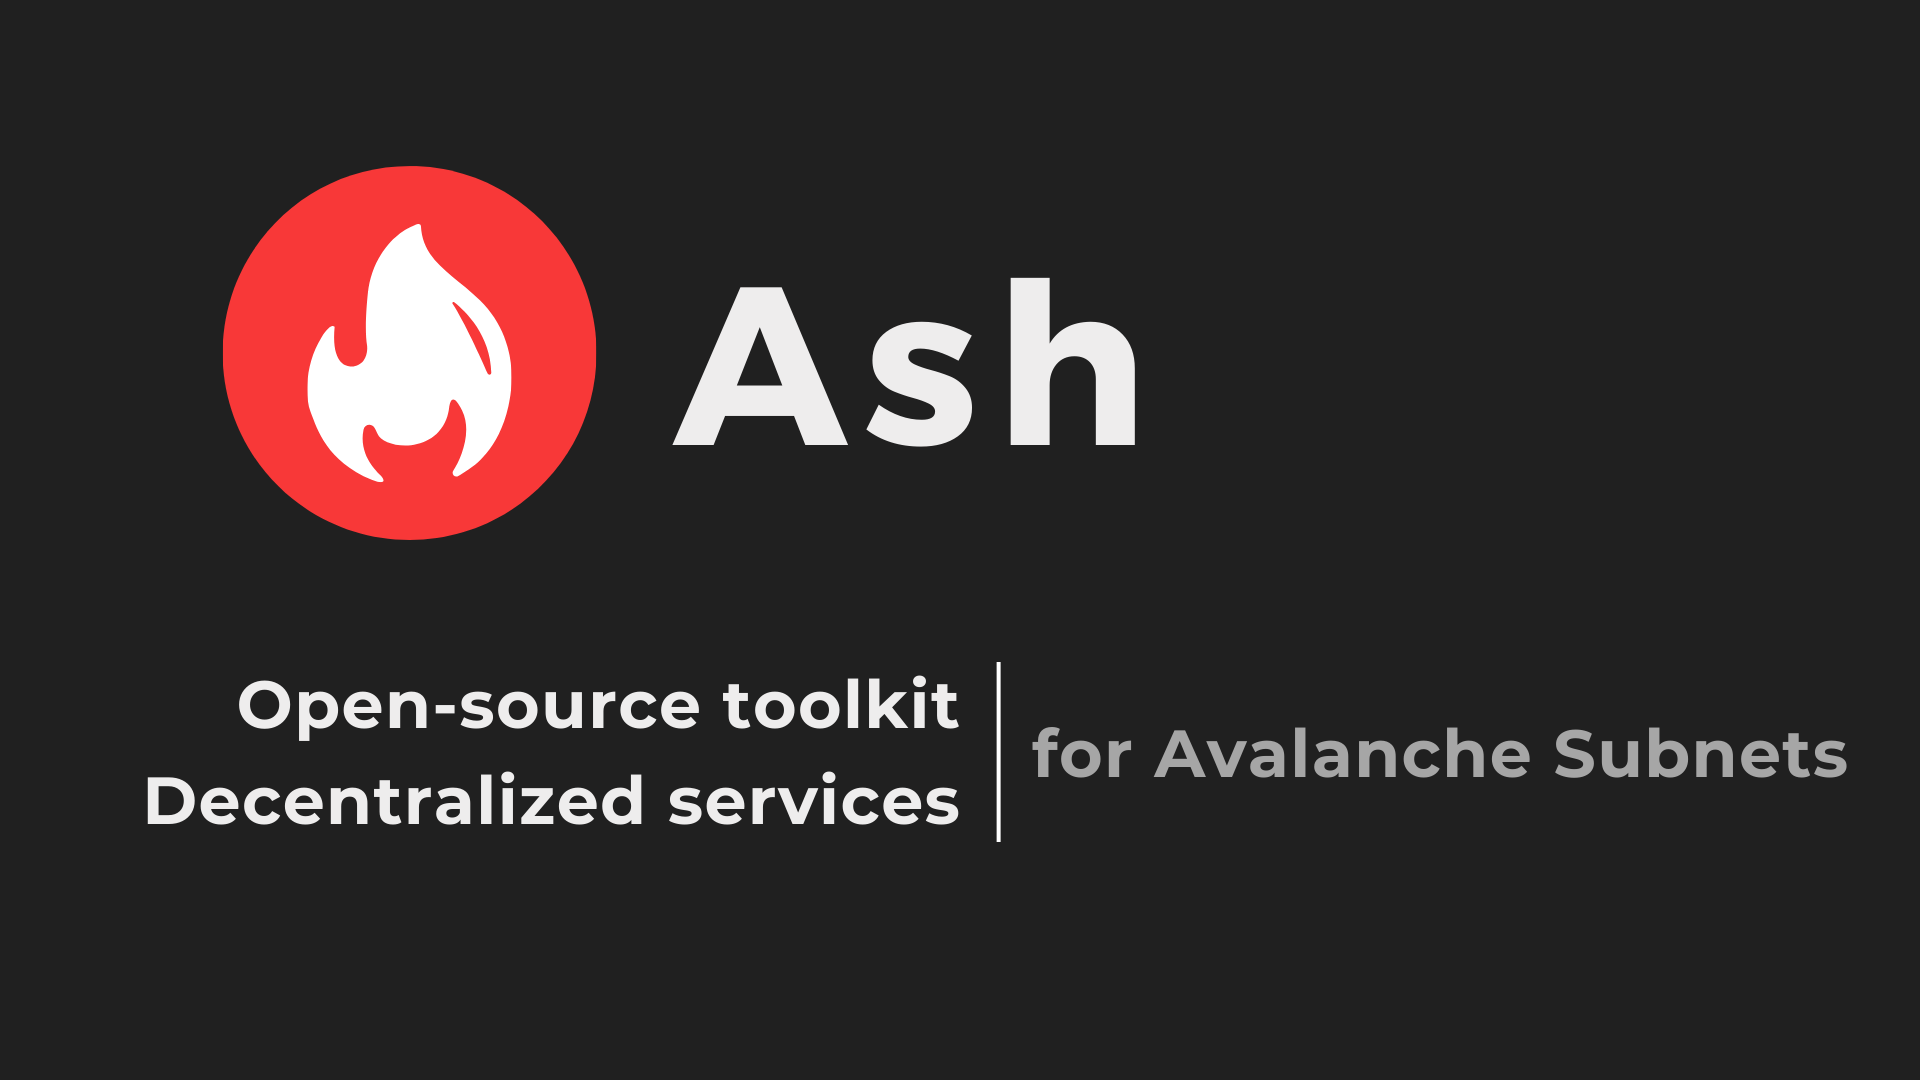
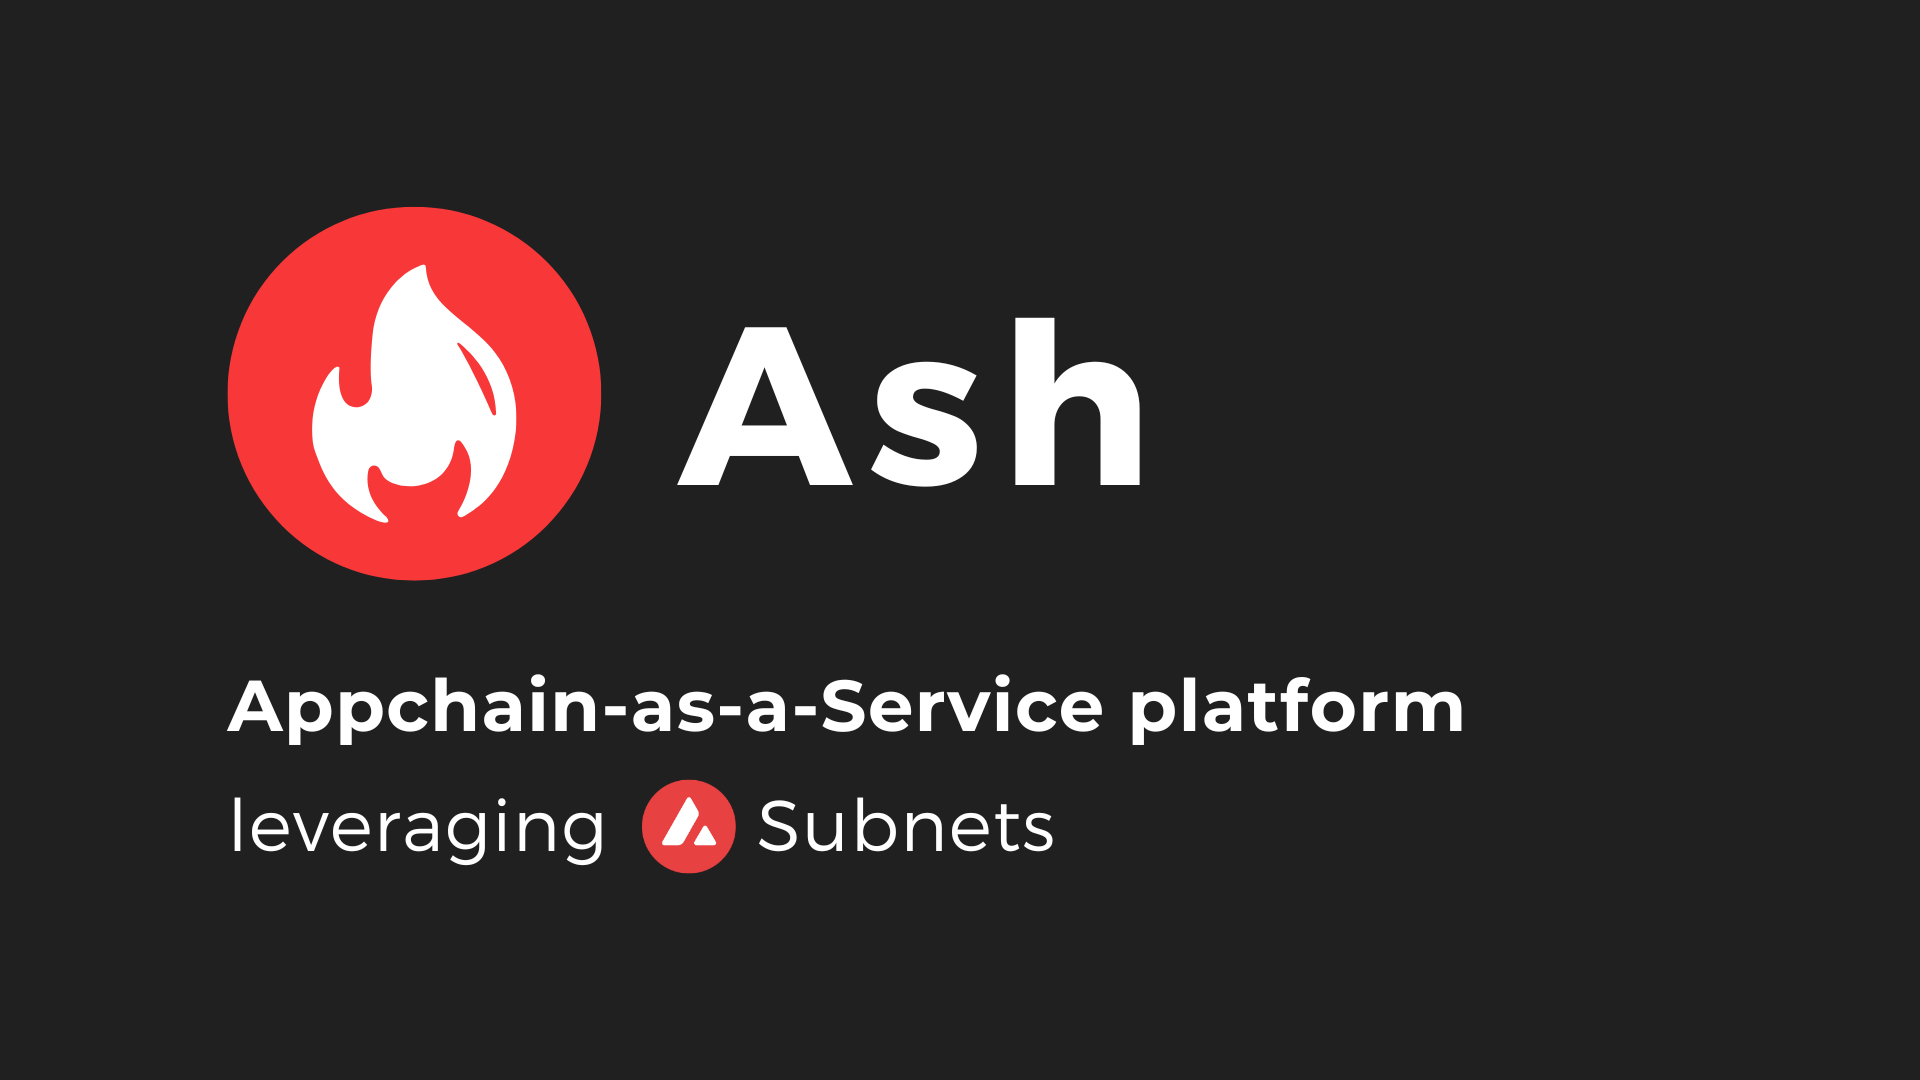
feat(landpage): Appchain-as-a-Service platform

Changed region(s): [[0.0625, 0.6111, 0.9688, 0.825], [0.0938, 0.1528, 0.3125, 0.55], [0.3438, 0.2444, 0.5938, 0.4583]]

diff --git a/src/components/Homepage/Features/index.tsx b/src/components/Homepage/Features/index.tsx
@@ -19,7 +19,10 @@ const FeatureList: FeatureItem[] = [
         <b>
           <Link to="/docs/console">Ash Console</Link>
         </b>{" "}
-        is the one-stop shop for <b>Avalanche services management</b>.
+        is the one-stop shop for <b>Appchain development and operation</b> on
+        Avalanche.
+        <br />
+        100% <b>cloud-agnostic</b>.
       </>
     ),
   },
@@ -40,7 +43,7 @@ const FeatureList: FeatureItem[] = [
     description: (
       <>
         Our team can help you with all your <b>Avalanche-related</b> needs,
-        including <b>private blockchain</b> networks.{" "}
+        including <b>Appchain design</b>.<br />
         <Link to="/docs/professional-services">Learn more</Link>.
       </>
     ),

diff --git a/docusaurus.config.js b/docusaurus.config.js
@@ -7,7 +7,7 @@ const darkCodeTheme = require("prism-react-renderer/themes/dracula");
 /** @type {import('@docusaurus/types').Config} */
 const config = {
   title: "Ash",
-  tagline: "Get more from your Avalanche infrastructure",
+  tagline: "Appchain-as-a-Service platform",
   favicon: "img/ash-logo.svg",
 
   // Set the production url of your site here
@@ -153,7 +153,7 @@ const config = {
             ],
           },
         ],
-        copyright: `Copyright © ${new Date().getFullYear()} E36 Knots - Built with Docusaurus`,
+        copyright: `Copyright © 2022-${new Date().getFullYear()} E36 Knots - Built with Docusaurus`,
       },
       prism: {
         theme: lightCodeTheme,

diff --git a/src/components/Homepage/Header/index.tsx b/src/components/Homepage/Header/index.tsx
@@ -11,7 +11,12 @@ export default function HomepageHeader() {
     <header className={clsx("hero hero--primary", styles.heroBanner)}>
       <div className="container">
         <h1 className="hero__title">{siteConfig.title}</h1>
-        <p className="hero__subtitle">{siteConfig.tagline}</p>
+        <p className="hero__subtitle">
+          {siteConfig.tagline}
+          <br />
+          leveraging Avalanche Subnets
+        </p>
+        <p className="hero__subtitle"></p>
         <div className={styles.buttons}>
           <Link
             className="button button--secondary button--lg"

diff --git a/docs/professional-services/index.md b/docs/professional-services/index.md
@@ -51,9 +51,9 @@ As the maintainers of the Ash [open-source tools](/docs/toolkit/) and [Console](
 - Integration with your monitoring system
 - Etc.
 
-### Subnet (AppChain) design and development
+### Subnet (Appchain) design and development
 
-Avalanche [Subnets](https://docs.avax.network/learn/avalanche/subnets-overview) allow any project to create **its dedicated blockchain** (or "AppChain") with their own set of rules and validators. Subnets can run **custom software** while benefiting from the **Avalanche consensus layer**.
+Avalanche [Subnets](https://docs.avax.network/learn/avalanche/subnets-overview) allow any project to create **its dedicated blockchain** (or "Appchain") with their own set of rules and validators. Subnets can run **custom software** while benefiting from the **Avalanche consensus layer**.
 
 Our team can help you **take the best decisions** regarding your Subnet design and follow you through the development process, **from devnet to mainnet**.
 
